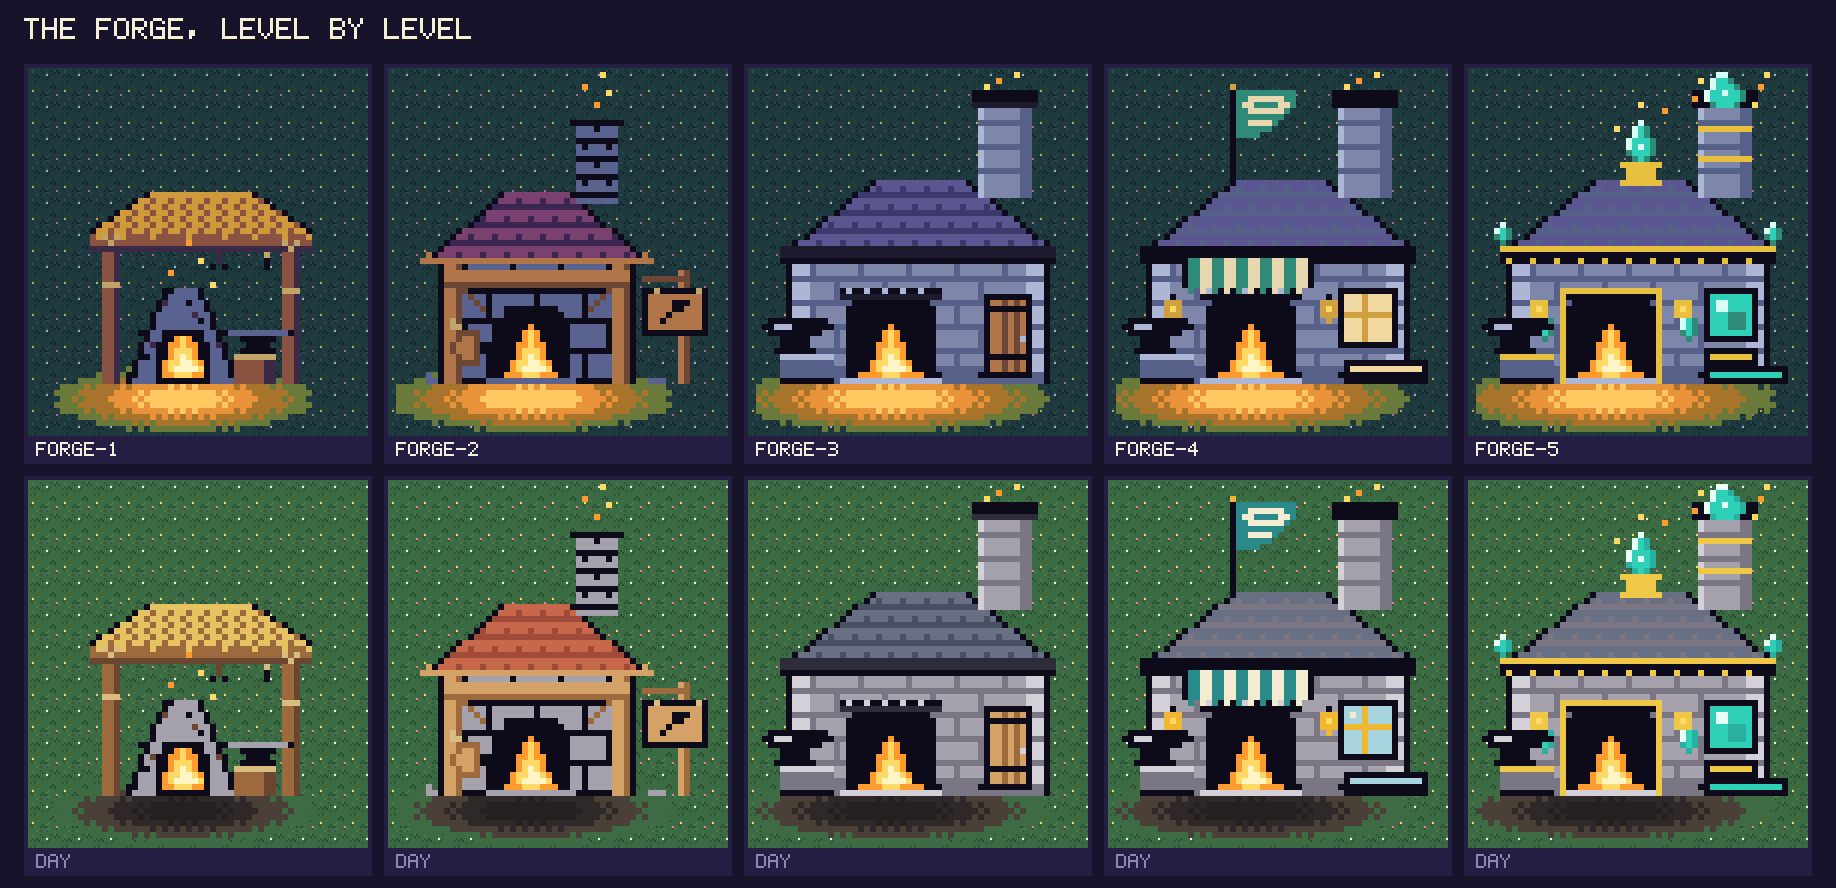
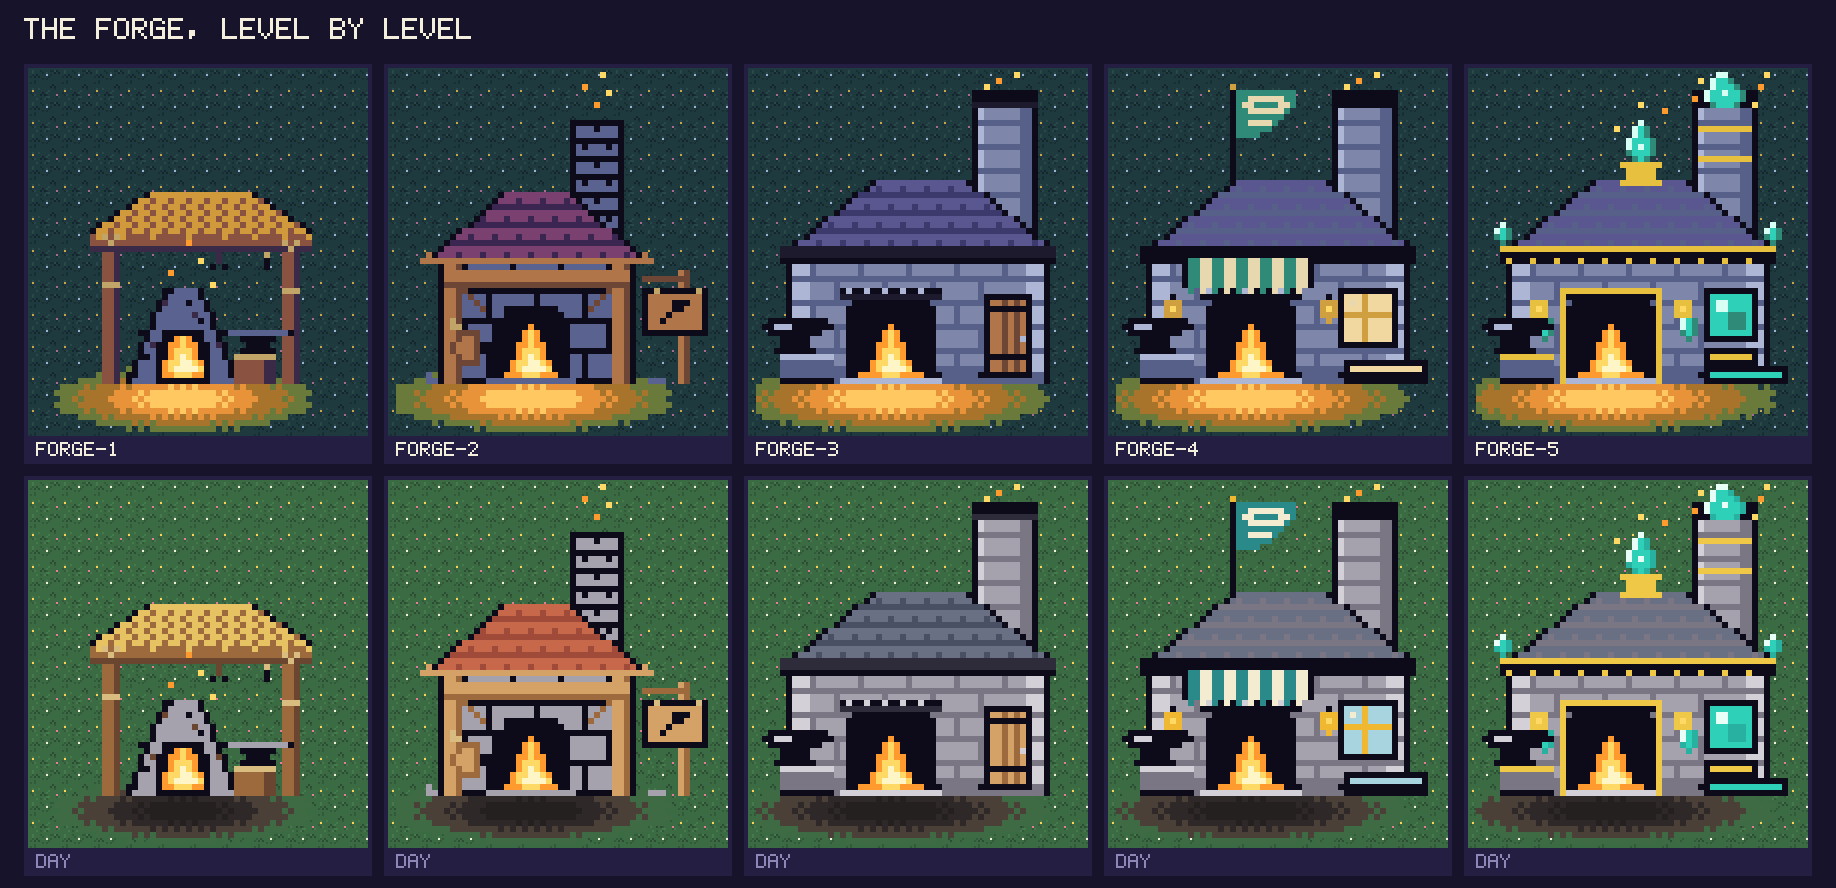
Forge levels 2-5: chimneys rise out of the roof
Claude-Session: https://claude.ai/code/session_01TqJ8tUAM4Muj4eb7wE4uc8

diff --git a/apps/activity/src/sprites/concepts/valley-levels-forge.ts b/apps/activity/src/sprites/concepts/valley-levels-forge.ts
@@ -290,15 +290,12 @@ function forge2(): Built {
     px(g, 11 + i, 36 + i, 'q');
     px(g, 35 - i, 36 + i, 'q');
   }
-  // the shingle roof
-  roof(g, 23, 20, 31, 6, 18, 's', 'h');
-  rect(g, 4, 31, 39, 1, 'p');
-  px(g, 5, 30, 'p');
-  px(g, 41, 30, 'p');
-  // a stone chimney
-  rect(g, 30, 8, 7, 14, 'F');
+  // a stone chimney: drawn first and carried down behind the roof, so the shingles cut it and run into its foot
+  rect(g, 30, 8, 7, 20, 'F');
   rect(g, 29, 8, 9, 1, 'k');
-  for (const y of [11, 14, 17, 20]) rect(g, 30, y, 7, 1, 'k');
+  rect(g, 29, 9, 1, 19, 'k');
+  rect(g, 37, 9, 1, 19, 'k');
+  for (const y of [11, 14, 17, 20, 23, 26]) rect(g, 30, y, 7, 1, 'k');
   for (const [x, y] of [
     [33, 9],
     [31, 12],
@@ -306,6 +303,8 @@ function forge2(): Built {
     [33, 15],
     [31, 18],
     [35, 18],
+    [33, 21],
+    [35, 24],
   ] as const)
     px(g, x, y, 'k');
   dots(g, [
@@ -314,6 +313,11 @@ function forge2(): Built {
     [31, 2, 'o'],
     [34, 0, 'y'],
   ]);
+  // the shingle roof
+  roof(g, 23, 20, 31, 6, 18, 's', 'h');
+  rect(g, 4, 31, 39, 1, 'p');
+  px(g, 5, 30, 'p');
+  px(g, 41, 30, 'p');
   // the hearth mouth and fire
   rect(g, FX - 6, 41, 13, 11, 'k');
   rect(g, FX - 5, 40, 11, 1, 'k');
@@ -375,16 +379,18 @@ function stoneSmithy(g: Grid, FX: number, slateShade = 'V', iron = 'i'): void {
     rect(g, 6, y, 3, 3, 'w');
     rect(g, 45, y, 3, 3, 'w');
   }
+  // chimney: drawn first and carried down behind the roof, so the slates cut it and run into its foot
+  rect(g, 37, 4, 9, 25, 'g');
+  rect(g, 44, 4, 2, 25, 'G');
+  rect(g, 37, 4, 1, 25, 'w');
+  for (let y = 8; y < 29; y += 4) rect(g, 37, y, 9, 1, 'G');
+  rect(g, 36, 6, 1, 23, 'k');
+  rect(g, 46, 6, 1, 23, 'k');
+  rect(g, 36, 3, 11, 2, 'k');
+  rect(g, 36, 5, 11, 1, iron);
   roof(g, 27, top, 29, 8, 22, 'v', slateShade);
   rect(g, 4, 29, 46, 2, iron);
   rect(g, 4, 31, 46, 1, 'k');
-  // chimney
-  rect(g, 37, 4, 9, top - 1, 'g');
-  rect(g, 44, 4, 2, top - 1, 'G');
-  rect(g, 37, 4, 1, top - 1, 'w');
-  for (let y = 8; y < top; y += 4) rect(g, 37, y, 9, 1, 'G');
-  rect(g, 36, 3, 11, 2, 'k');
-  rect(g, 36, 5, 11, 1, iron);
   // the arch with an iron lintel
   rect(g, FX - 8, 37, 17, 1, iron);
   rect(g, FX - 8, 36, 17, 1, 'k');
@@ -586,6 +592,7 @@ export const VALLEY_LEVELS_FORGE_CONCEPTS: ConceptSet = {
     'Level 3 Stone: a cut-stone smithy with a slate roof, black iron eave band and lintel, a tall stone chimney, a plank door with iron hinges and a big iron anvil.',
     'Level 4 Valley: the stone forge with a teal-and-cream awning over the fire, a teal pennant, brass lamps, a glass window and a quench trough.',
     'Level 5 Crystal: the master forge: a glowing crystal finial on the chimney, crystal inlays and pane, gold trim on eaves and lintel, gold lamps, sparks. The crystal glows by day too.',
+    '2026-11-11 (Misa), redo of levels 2 to 5: "Chimneys are floating in all of these." Each chimney now rises out of the roof: drawn first and carried down behind the roof, so the shingles or slates cut its foot, its outline closes on the roof line, and no gap is left. Level 1 has no chimney.',
   ],
   ...(VALLEY_GLOW_CONCEPTS.backdrop === undefined
     ? {}
@@ -595,13 +602,22 @@ export const VALLEY_LEVELS_FORGE_CONCEPTS: ConceptSet = {
       'Level 1: open-air smithy, stone hearth, stump anvil, rope-lashed frame.',
       forge1(),
     ),
-    'forge-2': make('Level 2: fieldstone forge, timber frame, shingles, bellows, sign.', forge2()),
-    'forge-3': make('Level 3: cut stone, slate, black iron, tall chimney, big anvil.', forge3()),
+    'forge-2': make(
+      'Level 2: fieldstone forge, timber frame, shingles, bellows, sign. 2026-11-11: the chimney now rises out of the shingle roof, shingles running into its foot.',
+      forge2(),
+    ),
+    'forge-3': make(
+      'Level 3: cut stone, slate, black iron, tall chimney, big anvil. 2026-11-11: the chimney now rises out of the slate roof, slates running into its foot.',
+      forge3(),
+    ),
     'forge-4': make(
-      'Level 4: teal-and-cream awning, pennant, brass lamps, glass, trough.',
+      'Level 4: teal-and-cream awning, pennant, brass lamps, glass, trough. 2026-11-11: the chimney now rises out of the slate roof, slates running into its foot.',
       forge4(),
     ),
-    'forge-5': make('Level 5: crystal finial and inlays, gold trim, sparks.', forge5()),
+    'forge-5': make(
+      'Level 5: crystal finial and inlays, gold trim, sparks. 2026-11-11: the chimney now rises out of the slate roof, slates running into its foot.',
+      forge5(),
+    ),
   },
   levels: {
     forge: [

diff --git a/docs/art/README.md b/docs/art/README.md
@@ -228,7 +228,7 @@ Status: **liked** means Misa approved the look; **draft** means he has not said 
 - **Status:** draft
 - **Requested:** 2026-11-09 (Misa): "Each building can absolutely change building material as it upgrades in levels ... Naturally a forge can't be made of wood, but it can have wooden elements on it ... Think of how Clash of Clans brings a new look with each new town hall level."
 - **Source:** `apps/activity/src/sprites/concepts/valley-levels-forge.ts` (draw it with `pnpm art valley-levels-forge`)
-- **Sheet of:** `d75c1105b5dd`
+- **Sheet of:** `d5821d2494de`
 - Five levels on one 56x60 canvas, all standing on row 51, centred; smaller levels leave the top and sides empty. Colours from valley-tiers, 16 or fewer per sprite.
 - Night is the main palette with the ember glow lying on the ground in stepped rings in front of the fire; alts.day is the same pixels with the fire still lit and a soot-dark yard.
 - Level 1 Humble: an open-air smithy: a fieldstone hearth mound with a small fire, a stump with a small anvil, a crooked rope-lashed log frame under a straw roof.
@@ -236,14 +236,15 @@ Status: **liked** means Misa approved the look; **draft** means he has not said 
 - Level 3 Stone: a cut-stone smithy with a slate roof, black iron eave band and lintel, a tall stone chimney, a plank door with iron hinges and a big iron anvil.
 - Level 4 Valley: the stone forge with a teal-and-cream awning over the fire, a teal pennant, brass lamps, a glass window and a quench trough.
 - Level 5 Crystal: the master forge: a glowing crystal finial on the chimney, crystal inlays and pane, gold trim on eaves and lintel, gold lamps, sparks. The crystal glows by day too.
+- 2026-11-11 (Misa), redo of levels 2 to 5: "Chimneys are floating in all of these." Each chimney now rises out of the roof: drawn first and carried down behind the roof, so the shingles or slates cut its foot, its outline closes on the roof line, and no gap is left. Level 1 has no chimney.
 
 | Code | Kind | Role | Status | Idea |
 | --- | --- | --- | --- | --- |
 | `forge-1` | free |  | draft | Level 1: open-air smithy, stone hearth, stump anvil, rope-lashed frame. |
-| `forge-2` | free |  | draft | Level 2: fieldstone forge, timber frame, shingles, bellows, sign. |
-| `forge-3` | free |  | draft | Level 3: cut stone, slate, black iron, tall chimney, big anvil. |
-| `forge-4` | free |  | draft | Level 4: teal-and-cream awning, pennant, brass lamps, glass, trough. |
-| `forge-5` | free |  | draft | Level 5: crystal finial and inlays, gold trim, sparks. |
+| `forge-2` | free |  | draft | Level 2: fieldstone forge, timber frame, shingles, bellows, sign. 2026-11-11: the chimney now rises out of the shingle roof, shingles running into its foot. |
+| `forge-3` | free |  | draft | Level 3: cut stone, slate, black iron, tall chimney, big anvil. 2026-11-11: the chimney now rises out of the slate roof, slates running into its foot. |
+| `forge-4` | free |  | draft | Level 4: teal-and-cream awning, pennant, brass lamps, glass, trough. 2026-11-11: the chimney now rises out of the slate roof, slates running into its foot. |
+| `forge-5` | free |  | draft | Level 5: crystal finial and inlays, gold trim, sparks. 2026-11-11: the chimney now rises out of the slate roof, slates running into its foot. |
 
 <a id="valley-levels-paddock"></a>
 
